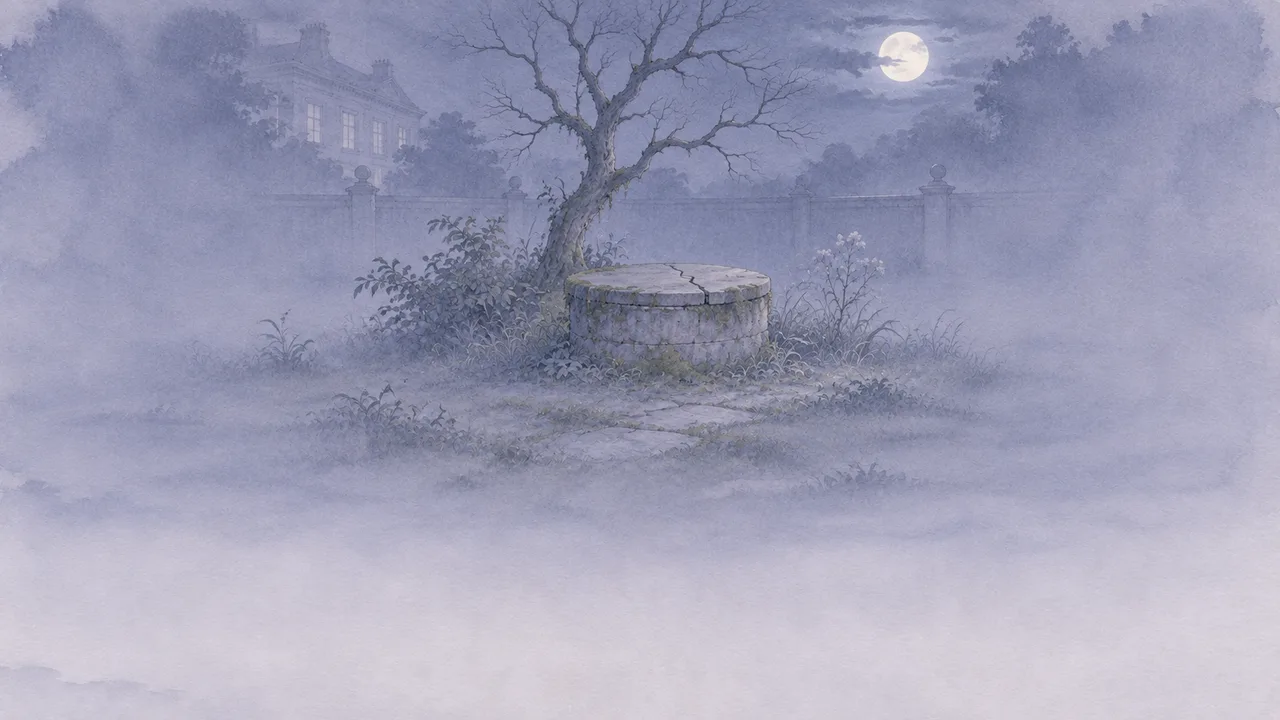
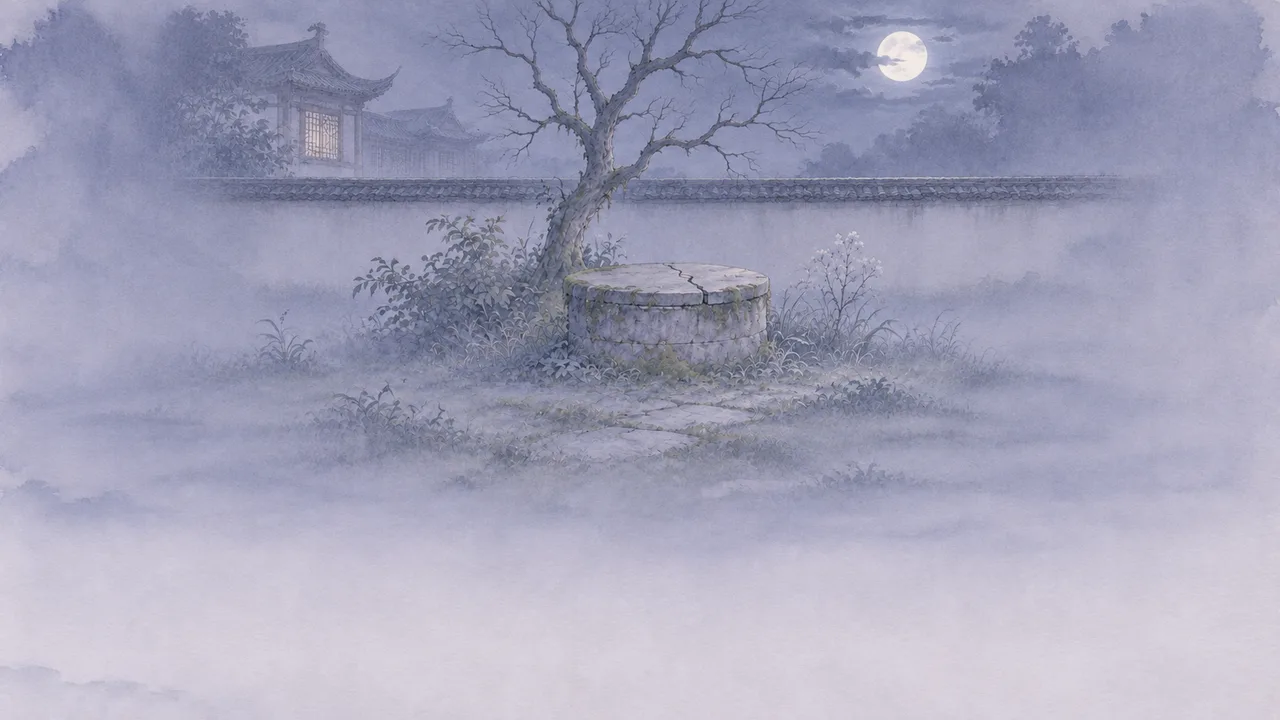
feat(PaintedSkin): 接入 Q 版对白头像与 10 张动作 CG
17 张 Q 版头像抠成 256×256 接入对白头像窗，取代立绘裁头。止水、沈夫人按用户看过游戏内实拍对比后的决定采用 Q 版，对白头像全员统一。10 张新 CG 挂到对应节点（road_meet、mirror、needle、whisk、jacket、lamp_walk、skin_touch、new_grave、rosary、give_heart），aftermath 换成银簪避开对话框的新版，shen_well 换成去掉西式洋楼的新版。build-story --strict 通过，verify 与八结局走查通过。preview.mp4 待台词定稿后重录。

diff --git a/game_runs/PaintedSkin/game/storyData.js b/game_runs/PaintedSkin/game/storyData.js
@@ -235,6 +235,36 @@ window.HuaPi.STORY = {
     },
     "fade": {
       "name": "褪色的绢"
+    },
+    "road_meet": {
+      "name": "雾中初遇"
+    },
+    "mirror": {
+      "name": "镜中青影"
+    },
+    "needle": {
+      "name": "灯下停针"
+    },
+    "whisk": {
+      "name": "赠拂尘"
+    },
+    "jacket": {
+      "name": "拢衣"
+    },
+    "lamp_walk": {
+      "name": "提灯"
+    },
+    "skin_touch": {
+      "name": "触绢"
+    },
+    "new_grave": {
+      "name": "新坟"
+    },
+    "rosary": {
+      "name": "断念珠"
+    },
+    "give_heart": {
+      "name": "相予"
     }
   },
   "achievements": {
@@ -330,6 +360,7 @@ window.HuaPi.STORY = {
     },
     "a1_road": {
       "scene": "road_dawn",
+      "cg": "road_meet",
       "segments": [
         {
           "text": "太原城外，秋雾尚未散尽。一个女子抱着小小的包袱独行，步子被露水和疲惫拖得很慢。",
@@ -410,6 +441,7 @@ window.HuaPi.STORY = {
     },
     "a1_dress": {
       "scene": "study_in",
+      "cg": "mirror",
       "segments": [
         {
           "text": "次日清晨，你推门送水。她正对一面小镜梳妆，窗纸透进薄光，映得她鬓边的银簪像一线霜。",
@@ -494,6 +526,7 @@ window.HuaPi.STORY = {
     },
     "a1_home": {
       "scene": "home_night",
+      "cg": "needle",
       "segments": [
         {
           "text": "你回到家时，陈氏仍坐在堂中。她闻到你袖上的脂粉香，手指轻轻停在未做完的针线上。",
@@ -551,6 +584,7 @@ window.HuaPi.STORY = {
     },
     "a1_market": {
       "scene": "market",
+      "cg": "whisk",
       "segments": [
         {
           "text": "次日集市上，道士拦住你。他的拂塵垂在臂弯，像一截被风吹不动的白水。",
@@ -644,6 +678,7 @@ window.HuaPi.STORY = {
     },
     "h_meet": {
       "scene": "study_in",
+      "cg": "jacket",
       "segments": [
         {
           "text": "两个女人第一次相见。阿绢不肯抬眼，陈氏先看见她腕上几道旧痕，颜色已经被她照着记忆画进皮相。",
@@ -938,6 +973,7 @@ window.HuaPi.STORY = {
     },
     "h_justice": {
       "scene": "grave_dawn",
+      "cg": "new_grave",
       "segments": [
         {
           "text": "沈夫人当众认下旧罪。她没有为自己求情，只请人把井底遗骨收殓，葬在山坡向阳处。",
@@ -971,6 +1007,7 @@ window.HuaPi.STORY = {
     },
     "h_blood": {
       "scene": "shen_well",
+      "cg": "rosary",
       "segments": [
         {
           "text": "井边响起一声短促的呼喊，随即只剩风吹枯叶。梦盈亲手了结了沈夫人。",
@@ -1028,6 +1065,7 @@ window.HuaPi.STORY = {
     "f_chen": {
       "pov": "chen",
       "scene": "home_night",
+      "cg": "lamp_walk",
       "segments": [
         {
           "text": "又一夜，王生没有归家。脂粉香、晚归、含糊的解释，一样样压在你胸口。",
@@ -1096,6 +1134,7 @@ window.HuaPi.STORY = {
     },
     "f_confront": {
       "scene": "study_night",
+      "cg": "skin_touch",
       "segments": [
         {
           "text": "王生回来时，你把画卷摆在桌上。他摸到绢面，手一下缩回去：那柔软不像画布，更像温热的皮肤。",
@@ -1503,6 +1542,7 @@ window.HuaPi.STORY = {
     },
     "l_stay": {
       "scene": "study_night",
+      "cg": "give_heart",
       "segments": [
         {
           "speaker": "gui",

diff --git a/game_runs/PaintedSkin/assets/manifest.js b/game_runs/PaintedSkin/assets/manifest.js
@@ -20,12 +20,22 @@ window.HuaPi.ART = {
     "burning": "assets/cg/burning.webp",
     "cover": "assets/cg/cover.webp",
     "fade": "assets/cg/fade.webp",
+    "give_heart": "assets/cg/give_heart.webp",
     "heart_chen": "assets/cg/heart_chen.webp",
     "heart_wang": "assets/cg/heart_wang.webp",
+    "jacket": "assets/cg/jacket.webp",
+    "lamp_walk": "assets/cg/lamp_walk.webp",
+    "mirror": "assets/cg/mirror.webp",
+    "needle": "assets/cg/needle.webp",
+    "new_grave": "assets/cg/new_grave.webp",
     "portrait": "assets/cg/portrait.webp",
+    "road_meet": "assets/cg/road_meet.webp",
+    "rosary": "assets/cg/rosary.webp",
     "shield_shadow": "assets/cg/shield_shadow.webp",
+    "skin_touch": "assets/cg/skin_touch.webp",
     "study_fire": "assets/cg/study_fire.webp",
     "well_bones": "assets/cg/well_bones.webp",
+    "whisk": "assets/cg/whisk.webp",
     "window_peek": "assets/cg/window_peek.webp"
   },
   "lihui": {
@@ -57,5 +67,23 @@ window.HuaPi.ART = {
     "wang:weak": "assets/lihui/wang_weak.webp",
     "wang:worry": "assets/lihui/wang_worry.webp"
   },
-  "avatar": {}
+  "avatar": {
+    "chen:calm": "assets/avatar/chen_calm.webp",
+    "chen:cold": "assets/avatar/chen_cold.webp",
+    "chen:fear": "assets/avatar/chen_fear.webp",
+    "chen:remorse": "assets/avatar/chen_remorse.webp",
+    "chen:resolve": "assets/avatar/chen_resolve.webp",
+    "chen:worry": "assets/avatar/chen_worry.webp",
+    "dao:angry": "assets/avatar/dao_angry.webp",
+    "dao:stern": "assets/avatar/dao_stern.webp",
+    "gui:rage": "assets/avatar/gui_rage.webp",
+    "gui:sorrow": "assets/avatar/gui_sorrow.webp",
+    "nv:love": "assets/avatar/nv_love.webp",
+    "nv:pitiful": "assets/avatar/nv_pitiful.webp",
+    "nv:smile": "assets/avatar/nv_smile.webp",
+    "shen:terror": "assets/avatar/shen_terror.webp",
+    "wang:calm": "assets/avatar/wang_calm.webp",
+    "wang:fear": "assets/avatar/wang_fear.webp",
+    "wang:weak": "assets/avatar/wang_weak.webp"
+  }
 };

diff --git a/game_runs/PaintedSkin/story/LINT.md b/game_runs/PaintedSkin/story/LINT.md
@@ -1,6 +1,6 @@
 # 剧本校验报告
 
-生成时间：2026-11-09T11:47:05.287Z
+生成时间：2026-11-10T02:55:42.366Z
 
 - 模式：strict
 - 节点：48
@@ -27,7 +27,7 @@
 
 ## 素材覆盖
 
-覆盖：44/44（100.0%）
+覆盖：54/54（100.0%）
 
 | 类型 | ID | 状态 |
 |---|---|---|
@@ -43,13 +43,23 @@
 | bg | shen_well | ✅ |
 | bg | grave_dawn | ✅ |
 | bg | courtyard_night | ✅ |
+| cg | road_meet | ✅ |
+| cg | mirror | ✅ |
+| cg | needle | ✅ |
+| cg | whisk | ✅ |
+| cg | jacket | ✅ |
 | cg | window_peek | ✅ |
 | cg | well_bones | ✅ |
+| cg | new_grave | ✅ |
+| cg | rosary | ✅ |
+| cg | lamp_walk | ✅ |
 | cg | portrait | ✅ |
+| cg | skin_touch | ✅ |
 | cg | burning | ✅ |
 | cg | shield_shadow | ✅ |
 | cg | aftermath | ✅ |
 | cg | heart_wang | ✅ |
+| cg | give_heart | ✅ |
 | cg | study_fire | ✅ |
 | lihui | wang:calm | ✅ |
 | lihui | chen:calm | ✅ |

diff --git a/game_runs/PaintedSkin/art/USAGE.md b/game_runs/PaintedSkin/art/USAGE.md
@@ -21,11 +21,21 @@
 
 - `aftermath` — 银簪与月色
 - `burning` — 火盆中的画
+- `give_heart` — 相予
 - `heart_wang` — 渡命
+- `jacket` — 拢衣
+- `lamp_walk` — 提灯
+- `mirror` — 镜中青影
+- `needle` — 灯下停针
+- `new_grave` — 新坟
 - `portrait` — 榻上美人图
+- `road_meet` — 雾中初遇
+- `rosary` — 断念珠
 - `shield_shadow` — 墙上的三道影
+- `skin_touch` — 触绢
 - `study_fire` — 书斋火起
 - `well_bones` — 井底遗骨
+- `whisk` — 赠拂尘
 - `window_peek` — 窗纸之后
 
 ## 立绘
@@ -55,5 +65,5 @@
 - `wang:weak`
 - `wang:worry`
 
-覆盖合计：44/44
+覆盖合计：54/54
 
